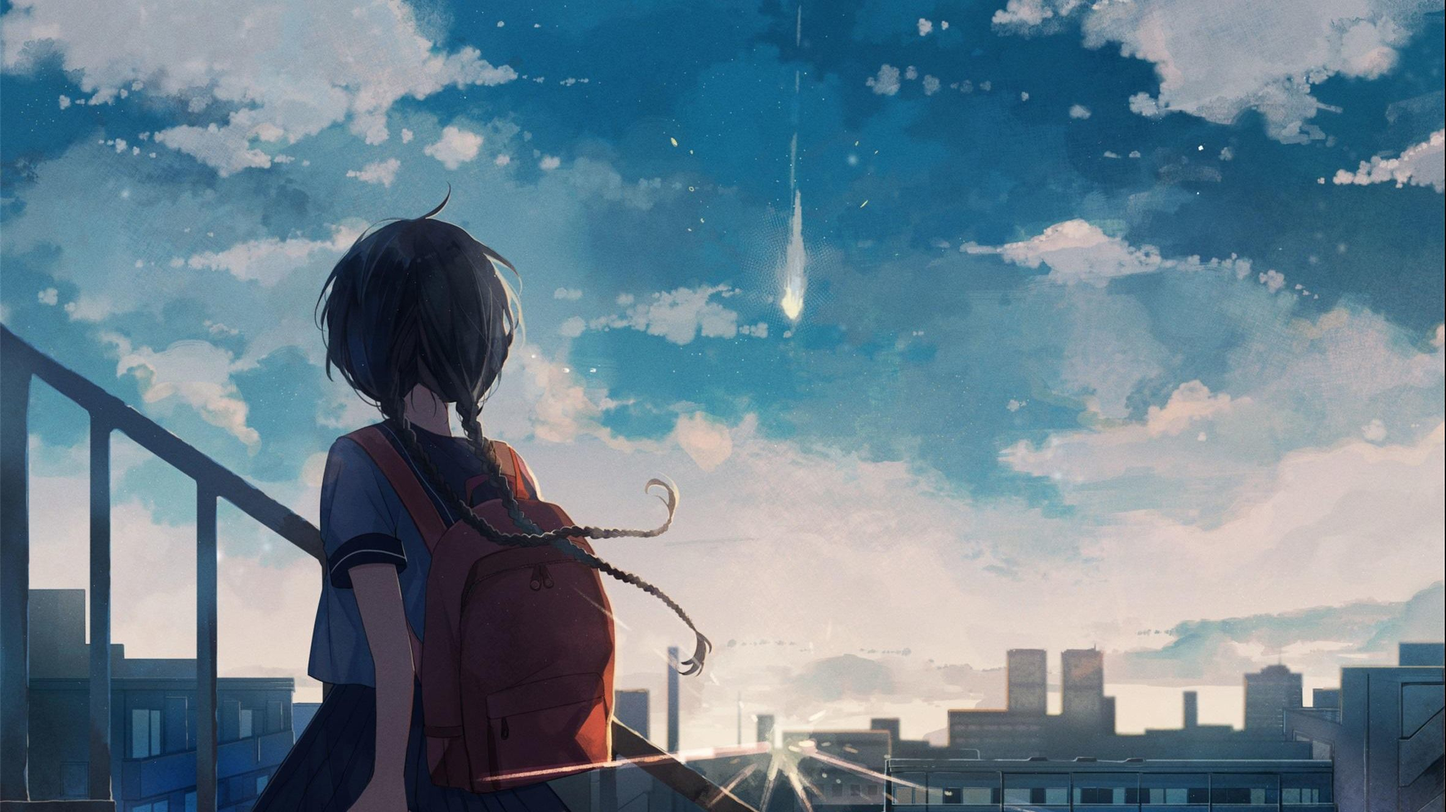
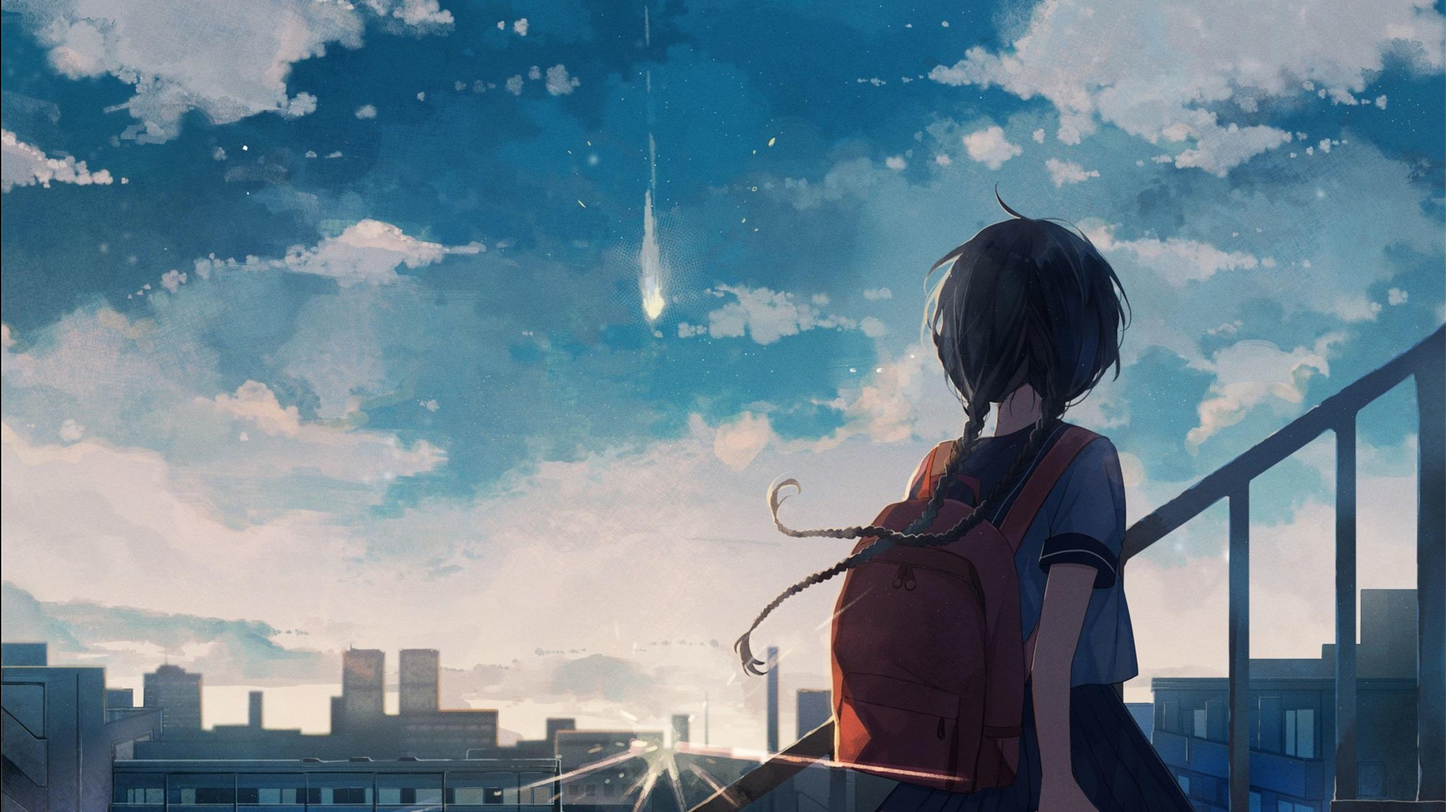
Final Change

diff --git a/Resource/css/style.css b/Resource/css/style.css
@@ -253,7 +253,7 @@ a {
 header {
   height: 100vh;
   background-image: linear-gradient(
-      to right,
+      to left,
       rgba(0, 0, 0, 0),
       rgba(0, 0, 0, 0),
       rgba(0, 0, 0, 0),
@@ -270,31 +270,20 @@ header {
 
 .hero-box {
   width: 50%;
-  float: right;
+  float: left;
   font-family: "Poppins", sans-serif;
-  padding-right: 3%;
+  padding-left: 3%;
   margin: 0;
   position: relative;
   top: 40%;
   transform: translate(0%, -50%);
   font-size: 120%;
-  text-align: right;
-}
-
-.hero-box h2 {
-  font-size: 175%;
-  text-align: right;
 }
 
 .hero-box p {
   float: right;
   margin-top: -20px;
-  margin-right: 3%;
-}
-
-.btn-box {
-  position: relative;
-  right: 0;
+  margin-right: 11%;
 }
 
 .btn-discover:link,
@@ -310,11 +299,9 @@ header {
   text-align: center;
   -webkit-transition: all 0.3s;
   transition: all 0.3s;
-  position: relative;
-  top: 20px;
-  right: -18%;
-  -webkit-transform-origin: top right;
-  transform-origin: top right;
+  float: left;
+  -webkit-transform-origin: top left;
+  transform-origin: top left;
 }
 
 .btn-discover:hover,
@@ -558,14 +545,6 @@ nav {
   height: 108px;
   margin-top: -24px;
   float: right;
-}
-
-.why-para-row {
-  background-image: url(img/causes.jpg);
-  background-size: contain;
-  background-position: left;
-  background-repeat: no-repeat;
-  min-height: 25vh;
 }
 
 .why-para-row div {

diff --git a/index.html b/index.html
@@ -80,7 +80,9 @@
                 </div>
             </div>
             <div class="row why-para-row">
+                <img src="Resource/css/img/causes.jpg" class="col span-3-of-7">
                 <div class="col span-4-of-7 ">It’s important to take care of yourself and get the most from life. Below are 10 practical ways to look after your mental health. Making simple changes to how you live doesn’t need to cost a fortune or take up loads of time. Anyone can follow this advice. Why not start today?. </div>
+                
             </div>
             
         </section>
